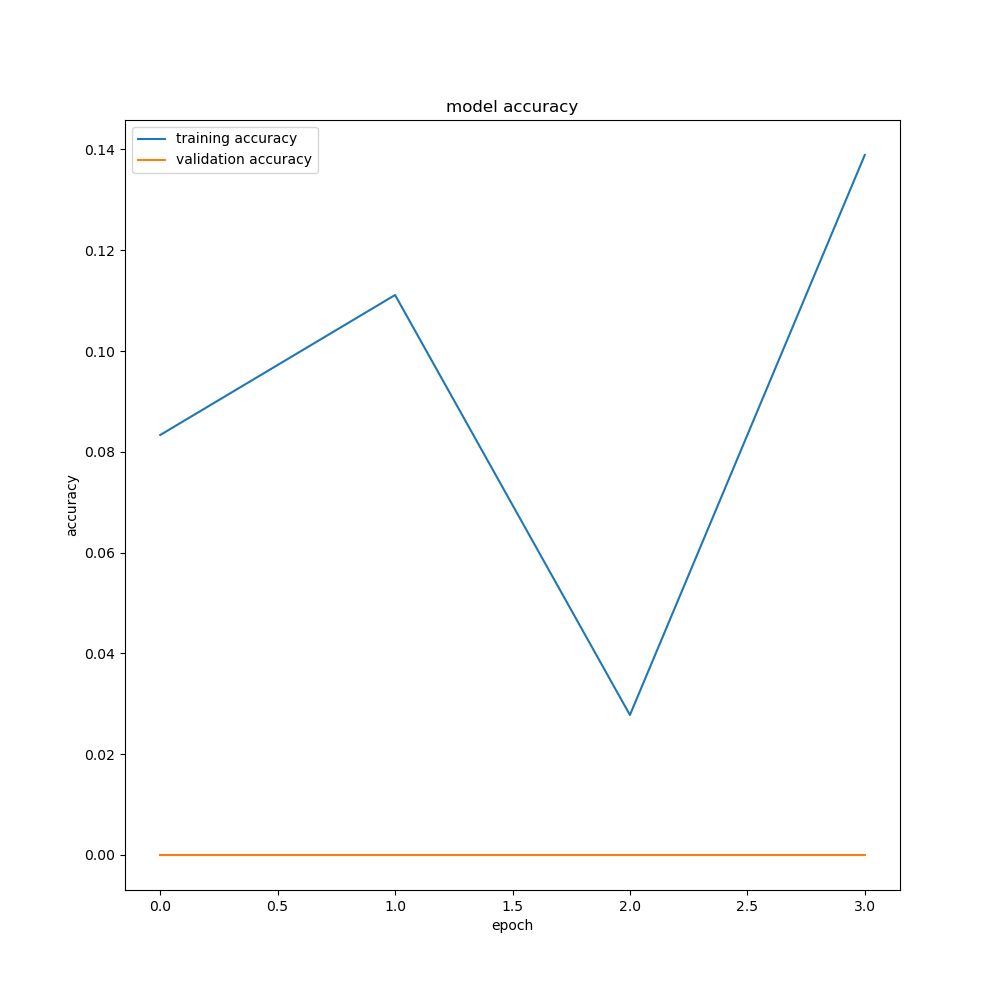
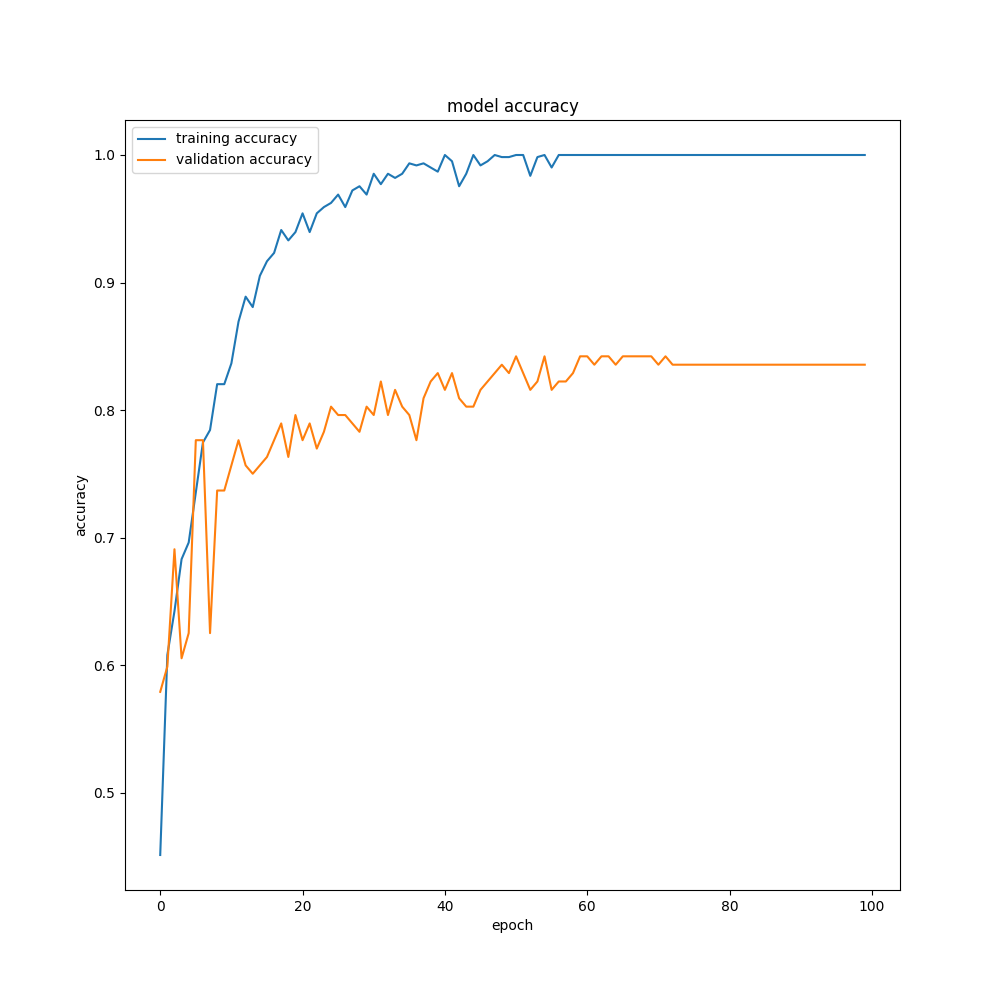
ran the model 100 epochs

diff --git a/main.py b/main.py
@@ -55,22 +55,18 @@ model.add(Conv2D(32, (3, 3), padding="same", activation="relu"))
 model.add(Conv2D(32, (3, 3), padding="same", activation="relu"))
 model.add(Conv2D(32, (3, 3), padding="same", activation="relu"))
 model.add(MaxPooling2D(pool_size=(2, 2)))
-model.add(Conv2D(32, (3, 3), padding="same", activation="relu"))
-model.add(Conv2D(32, (3, 3), padding="same", activation="relu"))
-model.add(Conv2D(32, (3, 3), padding="same", activation="relu"))
-model.add(MaxPooling2D(pool_size=(2, 2)))
 model.add(Dense(64, activation="relu"))
 model.add(Flatten())
 model.add(Dense(32, activation="relu"))
 model.add(Dense(constants.classesCount,  activation = 'softmax'))
 model.summary()
 print("model layers defined")
-optimizer = keras.optimizers.Adam(learning_rate=0.01)
+optimizer = keras.optimizers.SGD(learning_rate=.00001)
 print("model layers optimizer defined")
 model.compile(optimizer, loss='categorical_crossentropy', metrics=['accuracy']) #change to categorical_crossentropy
 print("model successfully complied")
 
-m = model.fit(train_ds, batch_size = 3, epochs = 4, verbose = 1, validation_data = val_ds)
+m = model.fit(train_ds, batch_size = 32, epochs = 100, verbose = 1, validation_data = val_ds)
 
 # #TODO: make sure input shape is correct
 if not os.path.exists("results"):
